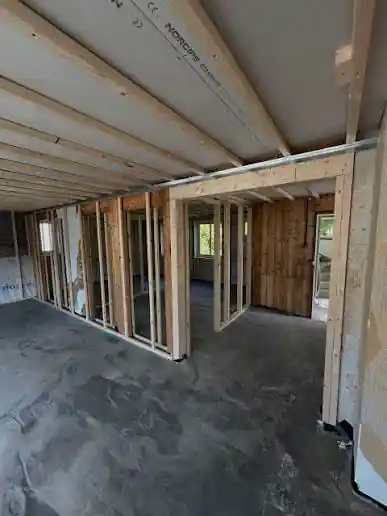
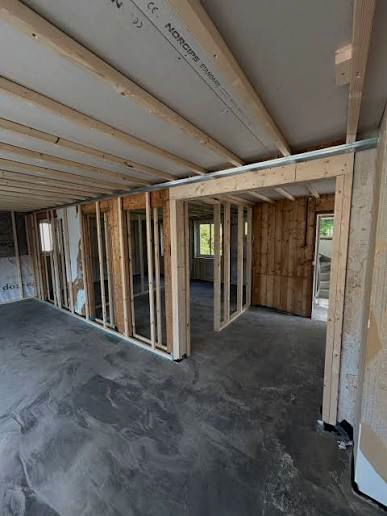
Fix remaining gallery pairing and image quality

Changed region(s): [[0.5271, 0.4651, 0.5581, 0.4961], [0.4341, 0.4031, 0.4651, 0.4341]]

diff --git a/index.html b/index.html
@@ -47,5 +47,5 @@
 <article class="review"><div class="review-top"><strong>Christer</strong></div><p>«Meget fornøyd med pris, kommunikasjon, utførelse og ikke minst hyggelige arbeidere.»</p><small>Straume · 5354</small></article>
 
 <article class="review"><div class="review-top"><strong>Mads</strong></div><p>«Strålende arbeid. Jobben ble utført i henhold til avtalen, og sluttproduktet ble enda bedre enn forventet.»</p><small>Laksevåg · 5161</small></article>
-</div></div></section><section class="gallery section-pad" id="galleri"><div class="wrap"><div class="section-kicker"><span>04</span><span class="rule"></span><span>Galleri</span></div><div class="gallery-grid"><figure><img src="assets/gallery/user-35.webp" alt="Prosjektbilde 35" loading="lazy" decoding="async" width="590" height="960"></figure><figure><img src="assets/gallery/user-36.webp" alt="Prosjektbilde 36" loading="lazy" decoding="async" width="978" height="1280"></figure><figure class="gallery-landscape"><img src="assets/gallery/user-37.webp" alt="Prosjektbilde 37" loading="lazy" decoding="async" width="1178" height="654"></figure><figure class="gallery-landscape"><img src="assets/gallery/user-38.webp" alt="Prosjektbilde 38" loading="lazy" decoding="async" width="1179" height="958"></figure><figure class="gallery-landscape"><img src="assets/gallery/user-40.webp" alt="Prosjektbilde 40" loading="lazy" decoding="async" width="1179" height="1115"></figure><figure><img src="assets/gallery/user-39.webp" alt="Prosjektbilde 39" loading="lazy" decoding="async" width="959" height="1266"></figure><figure><img src="assets/gallery/user-41.webp" alt="Prosjektbilde 41" loading="lazy" decoding="async" width="1179" height="1248"></figure><figure><img src="assets/gallery/user-42.webp" alt="Prosjektbilde 42" loading="lazy" decoding="async" width="969" height="1280"></figure><figure><img src="assets/gallery/user-43.webp" alt="Prosjektbilde 43" loading="lazy" decoding="async" width="953" height="1280"></figure><figure><img src="assets/gallery/user-44.webp" alt="Prosjektbilde 44" loading="lazy" decoding="async" width="1055" height="1280"></figure><figure><img src="assets/gallery/user-45.webp" alt="Prosjektbilde 45" loading="lazy" decoding="async" width="995" height="1280"></figure><figure><img src="assets/gallery/user-46.webp" alt="Prosjektbilde 46" loading="lazy" decoding="async" width="1011" height="1280"></figure><figure><img src="assets/gallery/user-47.webp" alt="Prosjektbilde 47" loading="lazy" decoding="async" width="745" height="1280"></figure><figure><img src="assets/gallery/user-48.webp" alt="Prosjektbilde 48" loading="lazy" decoding="async" width="913" height="1280"></figure><figure><img src="assets/gallery/user-49.webp" alt="Prosjektbilde 49" loading="lazy" decoding="async" width="938" height="1280"></figure><figure><img src="assets/gallery/user-50.webp" alt="Prosjektbilde 50" loading="lazy" decoding="async" width="387" height="516"></figure><figure class="gallery-landscape"><img src="assets/gallery/user-51.webp" alt="Prosjektbilde 51" loading="lazy" decoding="async" width="763" height="402"></figure><figure class="gallery-landscape"><img src="assets/gallery/user-52.webp" alt="Prosjektbilde 52" loading="lazy" decoding="async" width="680" height="510"></figure><figure><img src="assets/gallery/user-01.webp" alt="Prosjektbilde 1" loading="lazy" decoding="async" width="1179" height="1276"></figure><figure><img src="assets/gallery/user-02.webp" alt="Prosjektbilde 2" loading="lazy" decoding="async" width="976" height="1280"></figure><figure><img src="assets/gallery/user-03.webp" alt="Prosjektbilde 3" loading="lazy" decoding="async" width="1051" height="1280"></figure><figure><img src="assets/gallery/user-04.webp" alt="Prosjektbilde 4" loading="lazy" decoding="async" width="1066" height="1280"></figure><figure><img src="assets/gallery/user-05.webp" alt="Prosjektbilde 5" loading="lazy" decoding="async" width="1021" height="1280"></figure><figure><img src="assets/gallery/user-06.webp" alt="Prosjektbilde 6" loading="lazy" decoding="async" width="382" height="630"></figure><figure class="gallery-landscape"><img src="assets/gallery/user-07.webp" alt="Prosjektbilde 7" loading="lazy" decoding="async" width="1179" height="861"></figure><figure><img src="assets/gallery/user-08.webp" alt="Prosjektbilde 8" loading="lazy" decoding="async" width="720" height="1280"></figure><figure><img src="assets/gallery/user-09.webp" alt="Prosjektbilde 9" loading="lazy" decoding="async" width="976" height="1280"></figure><figure><img src="assets/gallery/user-10.webp" alt="Prosjektbilde 10" loading="lazy" decoding="async" width="812" height="1280"></figure><figure><img src="assets/gallery/user-11.webp" alt="Prosjektbilde 11" loading="lazy" decoding="async" width="801" height="1280"></figure><figure><img src="assets/gallery/user-12.webp" alt="Prosjektbilde 12" loading="lazy" decoding="async" width="728" height="1280"></figure><figure><img src="assets/gallery/user-13.webp" alt="Prosjektbilde 13" loading="lazy" decoding="async" width="741" height="1280"></figure><figure><img src="assets/gallery/user-14.webp" alt="Prosjektbilde 14" loading="lazy" decoding="async" width="966" height="1280"></figure><figure><img src="assets/gallery/user-15.webp" alt="Prosjektbilde 15" loading="lazy" decoding="async" width="990" height="1280"></figure><figure><img src="assets/gallery/user-16.webp" alt="Prosjektbilde 16" loading="lazy" decoding="async" width="676" height="1150"></figure><figure><img src="assets/gallery/user-17.webp" alt="Prosjektbilde 17" loading="lazy" decoding="async" width="733" height="1280"></figure><figure class="gallery-landscape"><img src="assets/gallery/user-18.webp" alt="Prosjektbilde 18" loading="lazy" decoding="async" width="590" height="430"></figure><figure><img src="assets/gallery/user-19.webp" alt="Prosjektbilde 19" loading="lazy" decoding="async" width="590" height="809"></figure><figure><img src="assets/gallery/user-20.webp" alt="Prosjektbilde 20" loading="lazy" decoding="async" width="972" height="1280"></figure><figure><img src="assets/gallery/user-21.webp" alt="Prosjektbilde 21" loading="lazy" decoding="async" width="590" height="1032"></figure><figure><img src="assets/gallery/user-22.webp" alt="Prosjektbilde 22" loading="lazy" decoding="async" width="590" height="1031"></figure><figure><img src="assets/gallery/user-23.webp" alt="Prosjektbilde 23" loading="lazy" decoding="async" width="590" height="1035"></figure><figure><img src="assets/gallery/user-24.webp" alt="Prosjektbilde 24" loading="lazy" decoding="async" width="590" height="1040"></figure><figure><img src="assets/gallery/user-25.webp" alt="Prosjektbilde 25" loading="lazy" decoding="async" width="1025" height="1262"></figure><figure><img src="assets/gallery/user-26.webp" alt="Prosjektbilde 26" loading="lazy" decoding="async" width="966" height="1258"></figure><figure class="gallery-landscape"><img src="assets/gallery/user-28.webp" alt="Prosjektbilde 28" loading="lazy" decoding="async" width="1179" height="668"></figure><figure><img src="assets/gallery/user-27.webp" alt="Prosjektbilde 27" loading="lazy" decoding="async" width="972" height="1280"></figure><figure><img src="assets/gallery/user-29.webp" alt="Prosjektbilde 29" loading="lazy" decoding="async" width="989" height="1280"></figure><figure><img src="assets/gallery/user-30.webp" alt="Prosjektbilde 30" loading="lazy" decoding="async" width="966" height="1280"></figure><figure class="gallery-landscape"><img src="assets/gallery/user-31.webp" alt="Prosjektbilde 31" loading="lazy" decoding="async" width="1179" height="839"></figure><figure><img src="assets/gallery/user-32.webp" alt="Prosjektbilde 32" loading="lazy" decoding="async" width="980" height="1280"></figure><figure><img src="assets/gallery/user-33.webp" alt="Prosjektbilde 33" loading="lazy" decoding="async" width="590" height="1052"></figure></div></div></section><section class="contact section-pad" id="kontakt"><div class="wrap contact-grid"><div><div class="section-kicker"><span>05</span><span class="rule"></span><span>Ta kontakt</span></div><h2>La oss snakke<br><i>om prosjektet.</i></h2><p class="contact-lead">Send noen stikkord om hva du ser for deg, så har du et godt utgangspunkt for neste steg.</p><div class="contact-details"><span>Bergen og omegn</span><small>ABC BYGG AS · Org.nr. 934 398 831</small></div></div><form class="contact-form" action="https://formsubmit.co/renats.bogdanovs@gmail.com" method="POST"><input type="hidden" name="_subject" value="Ny forespørsel fra ABC Bygg-nettsiden"><input type="hidden" name="_next" value="https://webproduksjon-ops.github.io/bana/?sent=1#kontakt"><input type="hidden" name="_captcha" value="false"><label for="name">Navn<input id="name" name="name" type="text" autocomplete="name" required placeholder="Hva heter du?"></label><label for="email">E-post<input id="email" name="email" type="email" autocomplete="email" required placeholder="navn@epost.no"></label><label for="message">Hva ønsker du hjelp med?<textarea id="message" name="message" rows="5" required placeholder="Fortell kort om prosjektet ditt"></textarea></label><button class="button button-green" type="submit">Send forespørsel <svg viewBox="0 0 20 20" aria-hidden="true"><path d="M4 16 16 4M8 4h8v8"/></svg></button><p class="form-note">Vi svarer så snart vi kan.</p></form></div></section></main><footer class="site-footer"><div class="wrap footer-grid"><a class="brand" href="#innhold"><img src="assets/abc-logo-dark.webp" alt="" width="40" height="40"><span><strong>ABC</strong><em>BYGG AS · BERGEN</em></span></a><p>Tømrerarbeid med omtanke<br>Bergen og omegn · Org.nr. 934 398 831</p><a class="text-link light" href="#innhold">Til toppen <svg viewBox="0 0 20 20" aria-hidden="true"><path d="M10 16V4m0 0L4 10m6-6 6 6"/></svg></a></div></footer><script src="assets/script.js?v=menu-touch-2"></script>
+</div></div></section><section class="gallery section-pad" id="galleri"><div class="wrap"><div class="section-kicker"><span>04</span><span class="rule"></span><span>Galleri</span></div><div class="gallery-grid"><figure class="gallery-landscape"><img src="assets/gallery/user-37.webp" alt="Prosjektbilde 37" loading="lazy" decoding="async" width="1178" height="654"></figure><figure><img src="assets/gallery/user-35.webp" alt="Prosjektbilde 35" loading="lazy" decoding="async" width="590" height="960"></figure><figure><img src="assets/gallery/user-36.webp" alt="Prosjektbilde 36" loading="lazy" decoding="async" width="978" height="1280"></figure><figure class="gallery-landscape"><img src="assets/gallery/user-38.webp" alt="Prosjektbilde 38" loading="lazy" decoding="async" width="1179" height="958"></figure><figure class="gallery-landscape"><img src="assets/gallery/user-40.webp" alt="Prosjektbilde 40" loading="lazy" decoding="async" width="1179" height="1115"></figure><figure><img src="assets/gallery/user-39.webp" alt="Prosjektbilde 39" loading="lazy" decoding="async" width="959" height="1266"></figure><figure><img src="assets/gallery/user-41.webp" alt="Prosjektbilde 41" loading="lazy" decoding="async" width="1179" height="1248"></figure><figure><img src="assets/gallery/user-42.webp" alt="Prosjektbilde 42" loading="lazy" decoding="async" width="969" height="1280"></figure><figure><img src="assets/gallery/user-43.webp" alt="Prosjektbilde 43" loading="lazy" decoding="async" width="953" height="1280"></figure><figure><img src="assets/gallery/user-44.webp" alt="Prosjektbilde 44" loading="lazy" decoding="async" width="1055" height="1280"></figure><figure><img src="assets/gallery/user-45.webp" alt="Prosjektbilde 45" loading="lazy" decoding="async" width="995" height="1280"></figure><figure><img src="assets/gallery/user-46.webp" alt="Prosjektbilde 46" loading="lazy" decoding="async" width="1011" height="1280"></figure><figure><img src="assets/gallery/user-47.webp" alt="Prosjektbilde 47" loading="lazy" decoding="async" width="745" height="1280"></figure><figure><img src="assets/gallery/user-48.webp" alt="Prosjektbilde 48" loading="lazy" decoding="async" width="913" height="1280"></figure><figure><img src="assets/gallery/user-49.webp" alt="Prosjektbilde 49" loading="lazy" decoding="async" width="938" height="1280"></figure><figure class="gallery-landscape"><img src="assets/gallery/user-51.webp" alt="Prosjektbilde 51" loading="lazy" decoding="async" width="763" height="402"></figure><figure class="gallery-landscape"><img src="assets/gallery/user-52.webp" alt="Prosjektbilde 52" loading="lazy" decoding="async" width="680" height="510"></figure><figure><img src="assets/gallery/user-50.webp" alt="Prosjektbilde 50" loading="lazy" decoding="async" width="387" height="516"></figure><figure><img src="assets/gallery/user-01.webp" alt="Prosjektbilde 1" loading="lazy" decoding="async" width="1179" height="1276"></figure><figure><img src="assets/gallery/user-02.webp" alt="Prosjektbilde 2" loading="lazy" decoding="async" width="976" height="1280"></figure><figure><img src="assets/gallery/user-03.webp" alt="Prosjektbilde 3" loading="lazy" decoding="async" width="1051" height="1280"></figure><figure><img src="assets/gallery/user-04.webp" alt="Prosjektbilde 4" loading="lazy" decoding="async" width="1066" height="1280"></figure><figure><img src="assets/gallery/user-05.webp" alt="Prosjektbilde 5" loading="lazy" decoding="async" width="1021" height="1280"></figure><figure><img src="assets/gallery/user-06.webp" alt="Prosjektbilde 6" loading="lazy" decoding="async" width="382" height="630"></figure><figure class="gallery-landscape"><img src="assets/gallery/user-07.webp" alt="Prosjektbilde 7" loading="lazy" decoding="async" width="1179" height="861"></figure><figure><img src="assets/gallery/user-08.webp" alt="Prosjektbilde 8" loading="lazy" decoding="async" width="720" height="1280"></figure><figure><img src="assets/gallery/user-09.webp" alt="Prosjektbilde 9" loading="lazy" decoding="async" width="976" height="1280"></figure><figure><img src="assets/gallery/user-10.webp" alt="Prosjektbilde 10" loading="lazy" decoding="async" width="812" height="1280"></figure><figure><img src="assets/gallery/user-11.webp" alt="Prosjektbilde 11" loading="lazy" decoding="async" width="801" height="1280"></figure><figure><img src="assets/gallery/user-12.webp" alt="Prosjektbilde 12" loading="lazy" decoding="async" width="728" height="1280"></figure><figure><img src="assets/gallery/user-13.webp" alt="Prosjektbilde 13" loading="lazy" decoding="async" width="741" height="1280"></figure><figure><img src="assets/gallery/user-14.webp" alt="Prosjektbilde 14" loading="lazy" decoding="async" width="966" height="1280"></figure><figure><img src="assets/gallery/user-15.webp" alt="Prosjektbilde 15" loading="lazy" decoding="async" width="990" height="1280"></figure><figure><img src="assets/gallery/user-16.webp" alt="Prosjektbilde 16" loading="lazy" decoding="async" width="676" height="1150"></figure><figure><img src="assets/gallery/user-17.webp" alt="Prosjektbilde 17" loading="lazy" decoding="async" width="733" height="1280"></figure><figure class="gallery-landscape"><img src="assets/gallery/user-18.webp" alt="Prosjektbilde 18" loading="lazy" decoding="async" width="590" height="430"></figure><figure><img src="assets/gallery/user-19.webp" alt="Prosjektbilde 19" loading="lazy" decoding="async" width="590" height="809"></figure><figure><img src="assets/gallery/user-20.webp" alt="Prosjektbilde 20" loading="lazy" decoding="async" width="972" height="1280"></figure><figure><img src="assets/gallery/user-21.webp" alt="Prosjektbilde 21" loading="lazy" decoding="async" width="590" height="1032"></figure><figure><img src="assets/gallery/user-22.webp" alt="Prosjektbilde 22" loading="lazy" decoding="async" width="590" height="1031"></figure><figure><img src="assets/gallery/user-23.webp" alt="Prosjektbilde 23" loading="lazy" decoding="async" width="590" height="1035"></figure><figure><img src="assets/gallery/user-24.webp" alt="Prosjektbilde 24" loading="lazy" decoding="async" width="590" height="1040"></figure><figure><img src="assets/gallery/user-25.webp" alt="Prosjektbilde 25" loading="lazy" decoding="async" width="1025" height="1262"></figure><figure><img src="assets/gallery/user-26.webp" alt="Prosjektbilde 26" loading="lazy" decoding="async" width="966" height="1258"></figure><figure class="gallery-landscape"><img src="assets/gallery/user-28.webp" alt="Prosjektbilde 28" loading="lazy" decoding="async" width="1179" height="668"></figure><figure><img src="assets/gallery/user-27.webp" alt="Prosjektbilde 27" loading="lazy" decoding="async" width="972" height="1280"></figure><figure><img src="assets/gallery/user-29.webp" alt="Prosjektbilde 29" loading="lazy" decoding="async" width="989" height="1280"></figure><figure><img src="assets/gallery/user-30.webp" alt="Prosjektbilde 30" loading="lazy" decoding="async" width="966" height="1280"></figure><figure class="gallery-landscape"><img src="assets/gallery/user-31.webp" alt="Prosjektbilde 31" loading="lazy" decoding="async" width="1179" height="839"></figure><figure><img src="assets/gallery/user-32.webp" alt="Prosjektbilde 32" loading="lazy" decoding="async" width="980" height="1280"></figure><figure><img src="assets/gallery/user-33.webp" alt="Prosjektbilde 33" loading="lazy" decoding="async" width="590" height="1052"></figure></div></div></section><section class="contact section-pad" id="kontakt"><div class="wrap contact-grid"><div><div class="section-kicker"><span>05</span><span class="rule"></span><span>Ta kontakt</span></div><h2>La oss snakke<br><i>om prosjektet.</i></h2><p class="contact-lead">Send noen stikkord om hva du ser for deg, så har du et godt utgangspunkt for neste steg.</p><div class="contact-details"><span>Bergen og omegn</span><small>ABC BYGG AS · Org.nr. 934 398 831</small></div></div><form class="contact-form" action="https://formsubmit.co/renats.bogdanovs@gmail.com" method="POST"><input type="hidden" name="_subject" value="Ny forespørsel fra ABC Bygg-nettsiden"><input type="hidden" name="_next" value="https://webproduksjon-ops.github.io/bana/?sent=1#kontakt"><input type="hidden" name="_captcha" value="false"><label for="name">Navn<input id="name" name="name" type="text" autocomplete="name" required placeholder="Hva heter du?"></label><label for="email">E-post<input id="email" name="email" type="email" autocomplete="email" required placeholder="navn@epost.no"></label><label for="message">Hva ønsker du hjelp med?<textarea id="message" name="message" rows="5" required placeholder="Fortell kort om prosjektet ditt"></textarea></label><button class="button button-green" type="submit">Send forespørsel <svg viewBox="0 0 20 20" aria-hidden="true"><path d="M4 16 16 4M8 4h8v8"/></svg></button><p class="form-note">Vi svarer så snart vi kan.</p></form></div></section></main><footer class="site-footer"><div class="wrap footer-grid"><a class="brand" href="#innhold"><img src="assets/abc-logo-dark.webp" alt="" width="40" height="40"><span><strong>ABC</strong><em>BYGG AS · BERGEN</em></span></a><p>Tømrerarbeid med omtanke<br>Bergen og omegn · Org.nr. 934 398 831</p><a class="text-link light" href="#innhold">Til toppen <svg viewBox="0 0 20 20" aria-hidden="true"><path d="M10 16V4m0 0L4 10m6-6 6 6"/></svg></a></div></footer><script src="assets/script.js?v=menu-touch-2"></script>
 </body></html>
